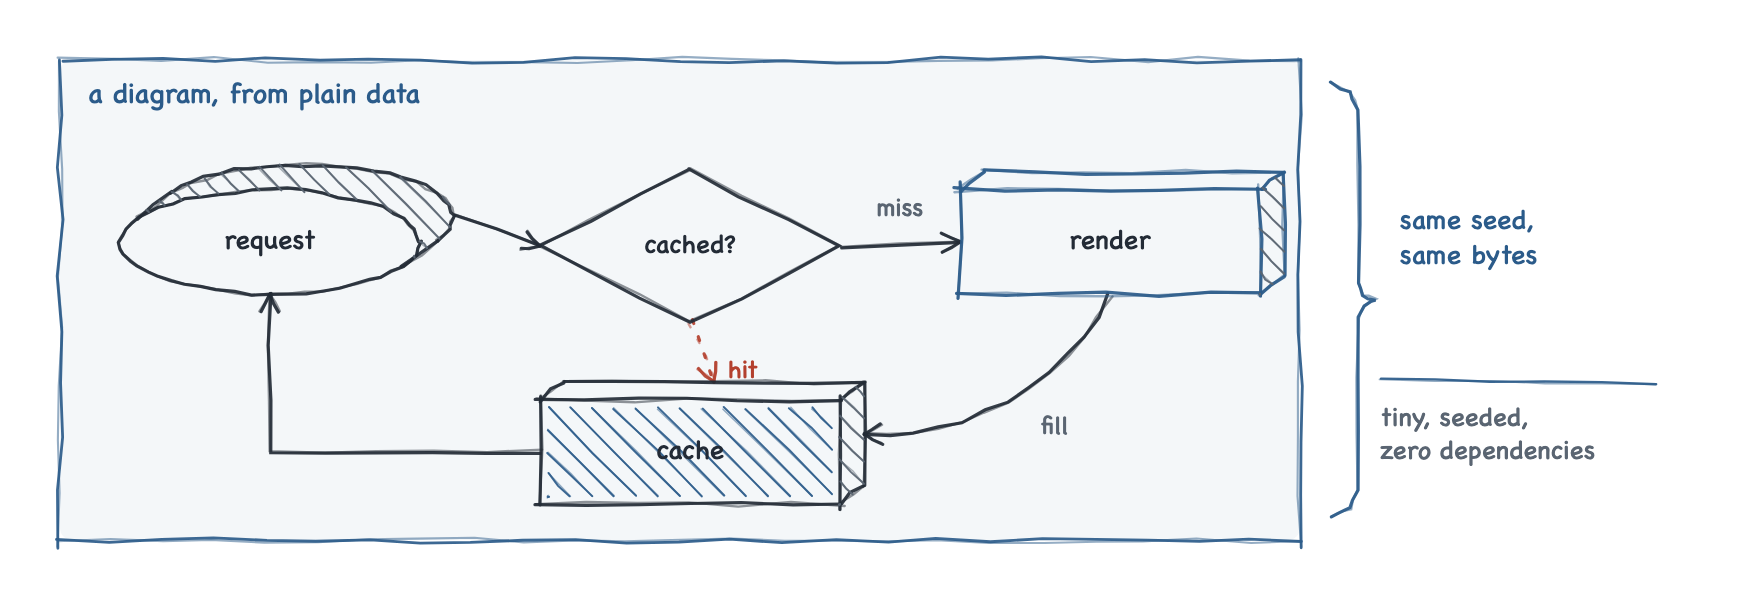
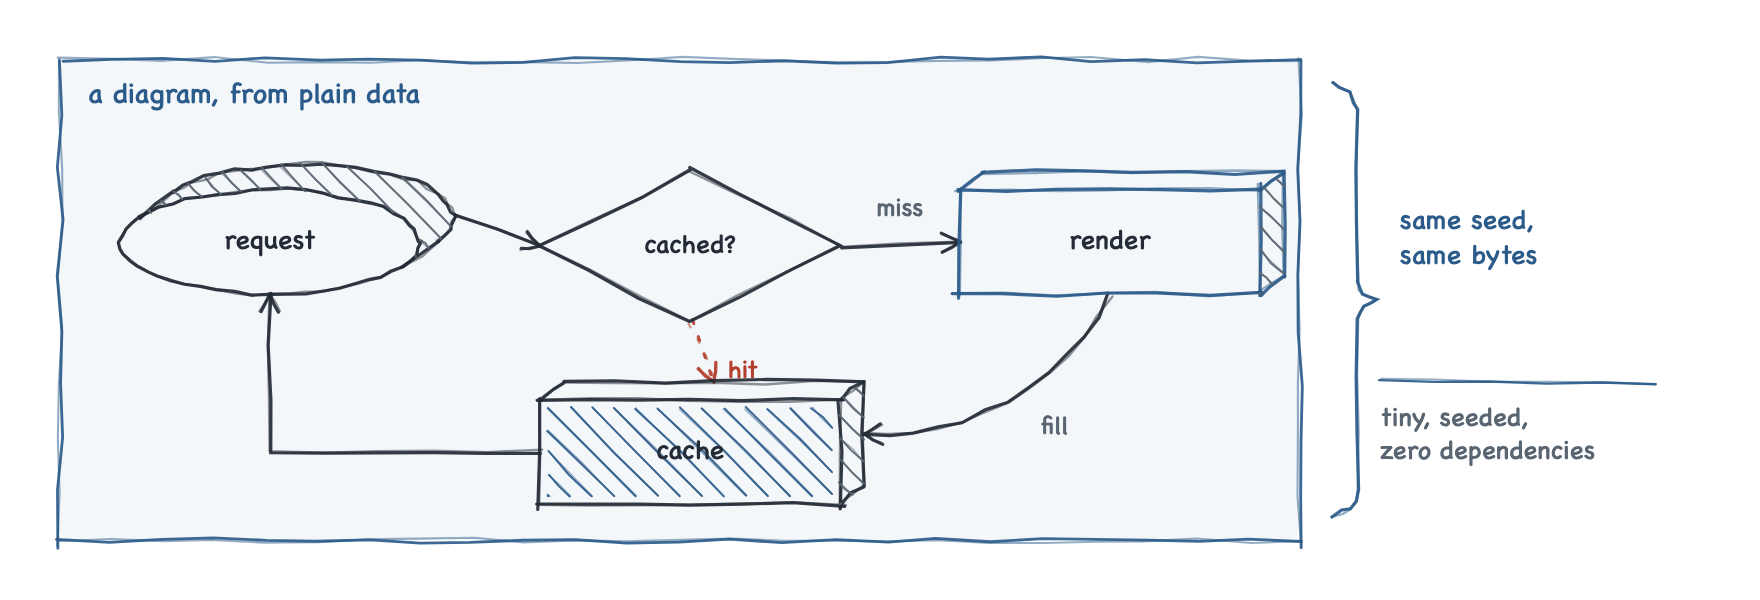
5.7: the band rides the drawing, not the ideal
The owner's second eye-check: the pill's back edge read as not parallel to
its front. Correct both times. `pill` deforms each outline point's radii by
up to half PILL_JX before stroking - that is the hand - while the band was
offset from the bare ideal, so its back edge was parallel to a curve nobody
drew and diverged from the drawn front by up to ~3 px on a 21 px band. A
box hides the identical mismatch behind its corners; a continuous band has
nowhere to hide it.

`pill` now captures the deviations it draws with - the same two j() draws
per point in the same order, so a flat pill's bytes do not move and the
goldens prove it - and hands `extrude` a deform that recovers each ideal
sample's angle and interpolates the captured deviation there, which also
carries a pill large enough for arcPoints to sample finer than PILL_STEPS.
The ideal still decides everything: the facing run, the winding, whether a
face exists. The deviations only carry the ink.

The test replays the drawing's own numbers rather than widening tolerances:
a pill's first 54 draws are its 27 radius pairs, so a second pen at the same
seed hands the test the exact deviations, and the chain pins to the ridden
positions at the old tight tolerances. Two mutants die - the deform dropped,
and its interpolation frozen at the first sample.

+153 B core, +145 server; hero PNGs and both GIFs re-rendered; the README
figure moves with the build. The budgets sit at 1 B and 8 B and are
[…]

diff --git a/packages/core/src/pen.ts b/packages/core/src/pen.ts
@@ -201,19 +201,54 @@ export function pen(svg: SVGSVGElement, options: PenOptions = {}): Pen {
     const rx = w / 2;
     const ry = h / 2;
     const pts: Point[] = [];
+    // The deviation each point was drawn at, kept so the extrusion can ride
+    // it. The same two `j` draws per point as ever, in the same order, so a
+    // flat pill's bytes do not move.
+    const devx: number[] = [];
+    const devy: number[] = [];
     for (let i = 0; i <= PILL_STEPS; i++) {
       const a = (i / PILL_STEPS) * 2 * Math.PI;
-      pts.push([
-        cx + Math.cos(a) * j(rx, PILL_JX),
-        cy + Math.sin(a) * j(ry, PILL_JY),
-      ]);
+      const rxi = j(rx, PILL_JX);
+      const ryi = j(ry, PILL_JY);
+      devx.push(rxi - rx);
+      devy.push(ryi - ry);
+      pts.push([cx + Math.cos(a) * rxi, cy + Math.sin(a) * ryi]);
     }
     stroke(pts, { ...opts, amplitude: PILL_AMP });
     // The ideal ellipse the loop above jitters around, sampled by the same
     // rule `hatchClip` samples it by - the outline this codebase already
     // treats as the pill's, not a second one. A full sweep repeats its first
     // point, which `extrude` must not see as a segment.
-    extrude(arcPoints(cx, cy, rx, ry, 0, 2 * Math.PI).slice(0, -1), opts);
+    //
+    // The ideal decides - the facing run, the winding, whether there is a
+    // face at all - and the deform below is how the ink then rides the
+    // outline the front was actually drawn with. A band offset from the
+    // ideal is parallel to a curve nobody drew: the front wanders up to
+    // half `PILL_JX` around it, low-frequency and per point, so against
+    // the drawn edge the band pinched and bulged, and the owner read its
+    // back edge as not parallel. The angle is recovered exactly because an
+    // outline point is `(cx + cos(a) rx, cy + sin(a) ry)` by construction,
+    // whatever the sign of either radius; the captured deviations are
+    // interpolated between samples, so a pill large enough for `arcPoints`
+    // to sample finer than `PILL_STEPS` rides the same drawn shape.
+    const deform = ([px, py]: Point): Point => {
+      let a = Math.atan2((py - cy) / ry, (px - cx) / rx);
+      if (a < 0) a += 2 * Math.PI;
+      // `a` is in [0, 2 pi), so `f` is under `PILL_STEPS` and `k + 1` never
+      // outruns the 27 samples the loop above captured.
+      const f = (a / (2 * Math.PI)) * PILL_STEPS;
+      const k = Math.floor(f);
+      const t = f - k;
+      const dx = (devx[k] as number) * (1 - t) + (devx[k + 1] as number) * t;
+      const dy = (devy[k] as number) * (1 - t) + (devy[k + 1] as number) * t;
+      return [px + Math.cos(a) * dx, py + Math.sin(a) * dy];
+    };
+    extrude(
+      arcPoints(cx, cy, rx, ry, 0, 2 * Math.PI).slice(0, -1),
+      opts,
+      false,
+      deform,
+    );
   }
 
   // A curve here is a denser point list and nothing else, which is what lets
@@ -285,7 +320,12 @@ export function pen(svg: SVGSVGElement, options: PenOptions = {}): Pen {
   // call instead: `ARC_MIN_CHORD` floors a mid-size pill's sampling at
   // chords that turn more sharply than a wide diamond's corner, so any angle
   // that spares the pill loses the diamond.
-  function extrude(outline: Point[], opts: ShapeOptions, faceted = false) {
+  function extrude(
+    outline: Point[],
+    opts: ShapeOptions,
+    faceted = false,
+    deform?: (p: Point) => Point,
+  ) {
     const d = opts.depth;
     if (typeof d !== 'number' || !Number.isFinite(d) || d <= 0) return;
     const ex = d;
@@ -307,8 +347,13 @@ export function pen(svg: SVGSVGElement, options: PenOptions = {}): Pen {
     for (let i = 0; i < m && start < 0; i++)
       if (facing(i) && !facing(i + m - 1)) start = i;
     if (start < 0) return;
-    const run: Point[] = [outline[start] as Point];
-    for (let i = start; facing(i); i++) run.push(outline[(i + 1) % m] as Point);
+    // Facing and winding were read off the ideal above; what gets inked is
+    // the deformed run, so the band's edges wander with the front outline
+    // they hang off rather than with the ideal it was reasoned about.
+    const ideal: Point[] = [outline[start] as Point];
+    for (let i = start; facing(i); i++)
+      ideal.push(outline[(i + 1) % m] as Point);
+    const run = deform ? ideal.map(deform) : ideal;
     const off = run.map(([px, py]): Point => [px + ex, py + ey]);
     stroke(off, opts);
     stroke([run[0] as Point, off[0] as Point], opts);

diff --git a/packages/core/test/pen.test.ts b/packages/core/test/pen.test.ts
@@ -28,6 +28,7 @@ const {
   PASS2_W,
   PILL_AMP,
   PILL_JX,
+  PILL_JY,
   PILL_STEPS,
   SEG_LEN,
   SIZE,
@@ -633,10 +634,35 @@ describe('depth', () => {
     // at sample 0, beginning at sample 15, low on the left, and ending at
     // sample 2, low on the right - pinned as indices rather than recomputed
     // from the facing rule.
+    //
+    // What is inked, though, is the ideal *ridden by the deviations the
+    // front was drawn with* - the band offset from the bare ideal was
+    // parallel to a curve nobody drew, and the owner read its back edge as
+    // not parallel to the front. The deviations replay exactly: a pill's
+    // first 54 draws are its 27 radius pairs, in x-then-y order, so a
+    // second pen at the same seed hands this test the numbers the drawing
+    // used. At this seed the ride moves the run's end nearly a pixel, so
+    // the tight tolerances below are what kill a band that falls back to
+    // the ideal.
+    const replica = pen(makeSvg());
+    const draws: number[] = [];
+    for (let i = 0; i < 54; i++) draws.push(replica.rng());
+    const ride = (k: number): Point => {
+      const a = (k / PILL_STEPS) * 2 * Math.PI;
+      return [
+        75 + Math.cos(a) * (75 + ((draws[2 * k] as number) - 0.5) * PILL_JX),
+        25 +
+          Math.sin(a) * (25 + ((draws[2 * k + 1] as number) - 0.5) * PILL_JY),
+      ];
+    };
     const out = arcPoints(75, 25, 75, 25, 0, 2 * Math.PI);
     expect(out).toHaveLength(27);
-    const from = nth(out, 15);
-    const to = nth(out, 2);
+    const from = ride(15);
+    const to = ride(2);
+    // The replayed ride sits on the ideal sample, displaced by under half a
+    // radius jitter - the sanity check that the replay is the drawing's.
+    expectNear(from, nth(out, 15), PILL_JX / 2);
+    expectNear(to, nth(out, 2), PILL_JX / 2);
     const chain = pointsOf(nth(paths, 2));
     expect(chain).toHaveLength(13 * MIN_STEPS + 1);
     expectNear(nth(chain, 0), [from[0] + EX, from[1] + EY], spread(AMP));
@@ -646,7 +672,8 @@ describe('depth', () => {
       damped(AMP),
     );
 
-    // Exactly two connectors, one at each silhouette point.
+    // Exactly two connectors, one at each silhouette point, from the ridden
+    // outline out.
     const first = pointsOf(nth(paths, 4));
     expectNear(nth(first, 0), from, spread(AMP));
     expectNear(

diff --git a/packages/core/src/sample.ts b/packages/core/src/sample.ts
@@ -123,8 +123,10 @@ export function arcPoints(
  * which is where the pen puts it - `Math.sign(NaN)` is `NaN` and nothing
  * dots positive with the vector.
  *
- * A pill whose sampled outline has collapsed to a chord. `pill` extrudes the
- * ellipse `arcPoints` samples rather than the jittered points it strokes, and
+ * A pill whose sampled outline has collapsed to a chord. `pill` decides its
+ * extrusion on the ellipse `arcPoints` samples rather than on the jittered
+ * points it strokes - the ink then rides the drawn deviations, but what
+ * faces, winds and collapses is the ideal - and
  * `ARC_MIN_CHORD` floors that sampling at `MIN_STEPS`: two chords, whose three
  * points are one diameter with its first repeated, and a diameter encloses
  * nothing. Three chords is the first outline with an area to wind, which a

diff --git a/openspec/changes/a-diagram-takes-depth/tasks.md b/openspec/changes/a-diagram-takes-depth/tasks.md
@@ -655,6 +655,31 @@ Gate: full suite, generated files fresh in CI's sense.
       re-rendered; the mechanism sentence corrected in the delta, both
       READMEs, `docs/agents.md` and two JSDoc sites
 
+- [x] 5.7 **Owner eye-check, second round: the pill's back edge was not
+      parallel to its front.** Not the owner's eyes. `pill` deforms each
+      outline point's radii by up to half `PILL_JX` before stroking - the
+      hand-drawn look - while the band was offset from the bare ideal, so
+      its back edge was parallel to a curve nobody drew and diverged from
+      the drawn front by up to ~3 px on a 21 px band. A box hides the same
+      mismatch behind its corners; a continuous band cannot.
+
+      The band now rides the drawn deviations: `pill` captures them - the
+      same two `j` draws per point in the same order, so a flat pill's
+      bytes do not move and the goldens stay untouched - and hands
+      `extrude` a deform that recovers each ideal sample's angle and
+      interpolates the captured deviation there, which also carries a pill
+      big enough for `arcPoints` to sample finer than `PILL_STEPS`. The
+      ideal still decides facing, winding and the face bound; the ink
+      rides the drawing.
+
+      The test replays the drawing's own numbers: a pill's first 54 draws
+      are its 27 radius pairs, so a second pen at the same seed hands the
+      test the exact deviations, and the chain is pinned to the ridden
+      positions at the old tight tolerances. Two mutants die: the deform
+      dropped, and its interpolation frozen at the first sample. +153 B on
+      core, +145 on server - the budgets left at 1 B and 8 B, re-decided
+      in their own commit
+
 ## 6. Release
 
 - [ ] 6.1 **OWNER**: core minor (0.7.0) via the release flow; `@pensketch/mcp`

diff --git a/openspec/changes/a-diagram-takes-depth/specs/core-renderer/spec.md b/openspec/changes/a-diagram-takes-depth/specs/core-renderer/spec.md
@@ -62,6 +62,14 @@ no ribs, and the picture said so before any review did: two faces fused into
 one bent strip, a box missing the upper-right edge the approved prototype
 drew, a defect the owner caught by eye in the shipped hero.
 
+The band SHALL ride the outline the front was drawn with: a pill deforms
+its radii point by point before stroking, and an offset of the bare ideal is
+parallel to a curve nobody drew — the drawn front wanders around it, so the
+band pinched and bulged against the edge the eye compares it to, and the
+owner read its back edge as not parallel. The ideal still decides — the
+facing run, the winding, whether a face exists at all — and the deviations
+the front was drawn at carry the ink.
+
 Shading SHALL be decided per face — the runs between corners, the whole run
 where there are none. A face is shaded when any part of it descends the
 screen, in the muted theme color at `HATCH_GAP` through `hatch`'s clip arm,

diff --git a/README.md b/README.md
@@ -550,7 +550,7 @@ already have - none of which is true of code that draws.
 | You supply | A diagram object: nodes, edges, braces, notes | Drawing calls you compose yourself |
 | It draws | Boxes, pills, diamonds, groups, arrows, labels, hatching | Any shape: lines, curves, arcs, paths, fills |
 | Renders to | SVG | SVG and Canvas |
-| Size, min+gzip | **5159 B** | 8919 B |
+| Size, min+gzip | **5311 B** | 8919 B |
 | Dependencies | **none** | four |
 | Seeding | `seed` per diagram, and a patch release renders byte-identical output by policy | `seed` per shape, plus `rough.newSeed()` |
 | Theming | `var(--ps-*)` references, so a page restyles a diagram already on screen | Per-call options, with instance defaults |
